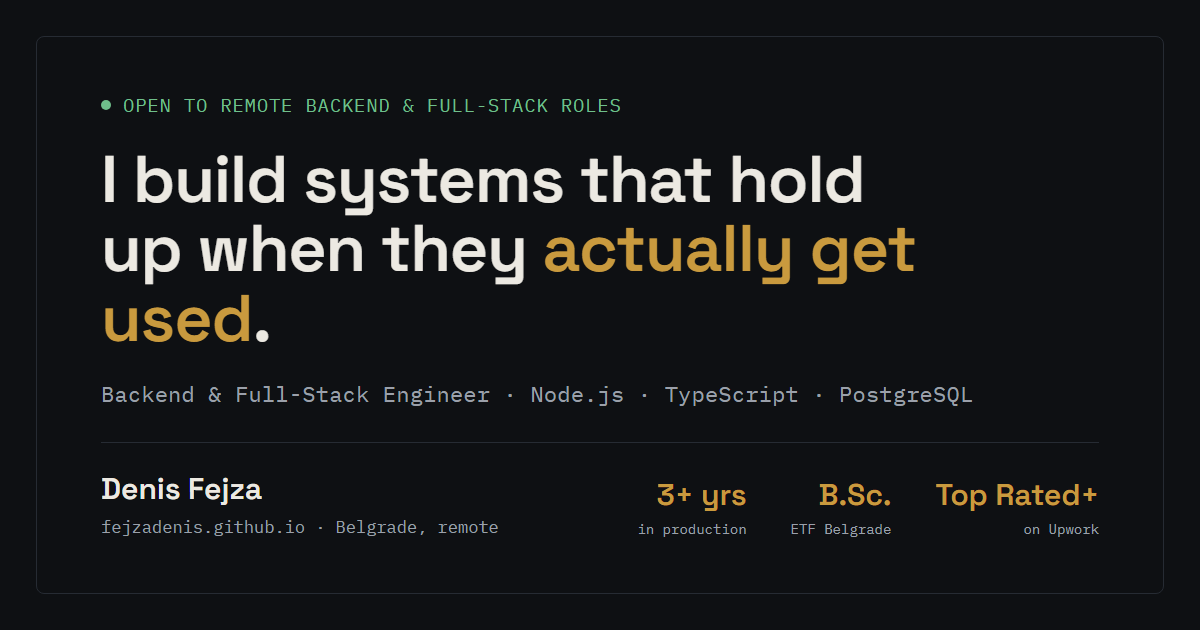
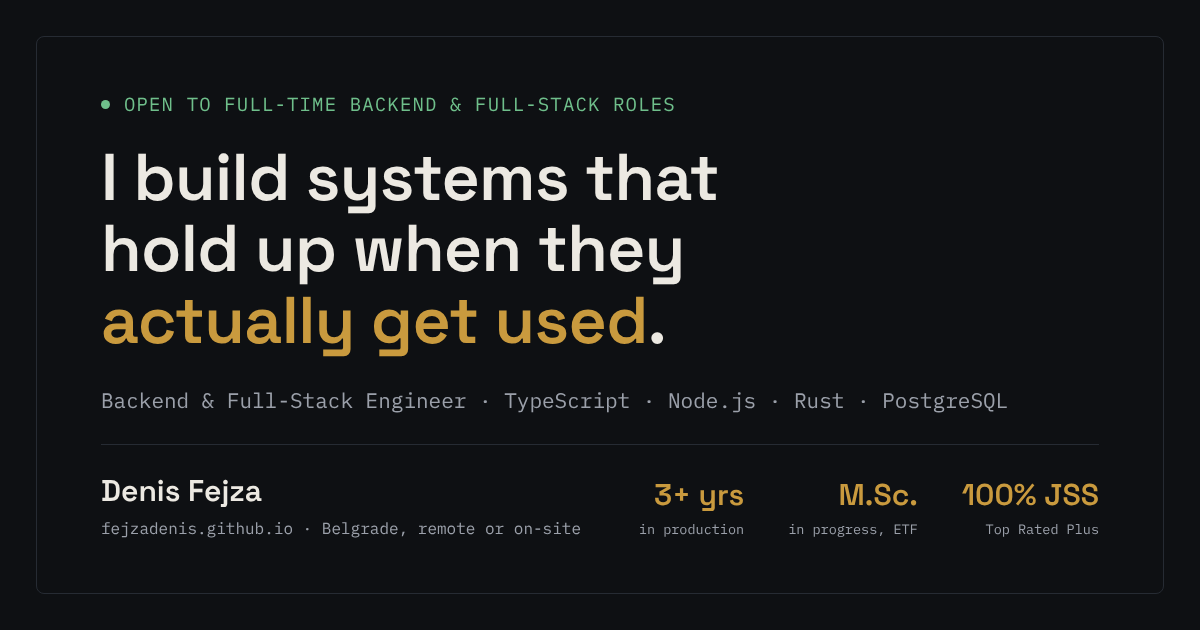
Align portfolio with LinkedIn and sharpen recruiter scan
Add M.Sc. in progress, Upwork as past role with 100% JSS, Belgrade location,
employment types and chronological experience, Text-to-SQL thesis card,
core stack line, expanded stack, refreshed preview image and metadata.

Claude-Session: https://claude.ai/code/session_01GMSU9wCStTBscBUy4AtybG

diff --git a/index.html b/index.html
@@ -4,25 +4,25 @@
 <meta charset="UTF-8" />
 <meta name="viewport" content="width=device-width, initial-scale=1.0" />
 <title>Denis Fejza | Backend &amp; Full-Stack Engineer</title>
-<meta name="description" content="Backend and full-stack engineer with three years shipping production systems for paying clients: APIs, PostgreSQL, authentication and payments, plus AI and trading infrastructure. Europe-based, remote, full-time or contract." />
+<meta name="description" content="Denis Fejza, backend and full-stack engineer in Belgrade. 3+ years shipping production systems in TypeScript/Node.js, Rust, Python and PostgreSQL: APIs, auth, payments, AI agents and trading infrastructure. Open to full-time roles, remote or on-site in Belgrade." />
 <meta name="robots" content="index, follow, max-image-preview:large" />
 <meta name="theme-color" content="#0E1013" />
 <link rel="canonical" href="https://fejzadenis.github.io/" />
 
 <meta property="og:site_name" content="Denis Fejza" />
 <meta property="og:title" content="Denis Fejza | Backend &amp; Full-Stack Engineer" />
-<meta property="og:description" content="Three years shipping production systems for paying clients: APIs, PostgreSQL, auth and payments, plus AI and trading infrastructure. Systems depth from a RISC-V kernel to a compiler. Europe-based, remote." />
+<meta property="og:description" content="3+ years shipping production systems: APIs, PostgreSQL, auth and payments, plus AI agents and trading infrastructure in Rust. Systems depth from a RISC-V kernel to a compiler. Belgrade, remote or on-site." />
 <meta property="og:type" content="website" />
 <meta property="og:url" content="https://fejzadenis.github.io/" />
 <meta property="og:locale" content="en_US" />
 <meta property="og:image" content="https://fejzadenis.github.io/assets/og.png" />
 <meta property="og:image:width" content="1200" />
 <meta property="og:image:height" content="630" />
-<meta property="og:image:alt" content="Denis Fejza, backend and full-stack engineer, Europe, remote." />
+<meta property="og:image:alt" content="Denis Fejza, backend and full-stack engineer, Belgrade, Serbia. Open to full-time roles." />
 
 <meta name="twitter:card" content="summary_large_image" />
 <meta name="twitter:title" content="Denis Fejza | Backend &amp; Full-Stack Engineer" />
-<meta name="twitter:description" content="Three years shipping production systems for paying clients: APIs, PostgreSQL, auth and payments, plus AI and trading infrastructure." />
+<meta name="twitter:description" content="3+ years shipping production systems: APIs, PostgreSQL, auth and payments, plus AI agents and trading infrastructure in Rust." />
 <meta name="twitter:image" content="https://fejzadenis.github.io/assets/og.png" />
 
 <link rel="icon" href="/favicon.svg" type="image/svg+xml" />
@@ -167,6 +167,9 @@
   .btn-primary:hover{transform:translateY(-1px); background:#dcaa48;}
   .btn-ghost{border:1px solid var(--line); color:var(--ink); font-weight:500;}
   .btn-ghost:hover{border-color:var(--ink-dim); transform:translateY(-1px);}
+  .core-stack{display:flex; flex-wrap:wrap; align-items:center; gap:8px 18px; list-style:none; margin:-28px 0 56px; padding:0; font-family:var(--mono); font-size:12.5px; color:var(--ink-dim);}
+  .core-stack .core-label{color:var(--signal); letter-spacing:.08em; text-transform:uppercase; font-size:11px; flex-basis:auto;}
+  @media (max-width:520px){.core-stack{margin:-16px 0 44px;} .core-stack .core-label{flex-basis:100%;}}
 
   /* ---------- STATS BAR ---------- */
   .stats-bar{border-top:1px solid var(--line); border-bottom:1px solid var(--line); background:var(--bg-alt);}
@@ -207,8 +210,7 @@
   .group-label + .work-grid{margin-bottom:0;}
   .work-group + .work-group{margin-top:52px;}
   .work-grid{display:grid; grid-template-columns:repeat(2,1fr); gap:20px;}
-  .work-grid.compact{grid-template-columns:repeat(3,1fr);}
-  @media (max-width:900px){.work-grid.compact{grid-template-columns:repeat(2,1fr);}}
+  .work-grid.compact{grid-template-columns:repeat(2,1fr);}
   @media (max-width:800px){.work-grid{grid-template-columns:1fr;}}
   @media (max-width:640px){.work-grid.compact{grid-template-columns:1fr;}}
   .card{border:1px solid var(--line); border-radius:4px; padding:26px; background:var(--bg); transition:border-color .2s, transform .2s; display:flex; flex-direction:column;}
@@ -263,6 +265,7 @@
   .exp-item ul li::before{content:"\2192"; position:absolute; left:0; color:var(--signal); font-family:var(--mono);}
 
   /* ---------- EDUCATION ---------- */
+  .edu-list{display:flex; flex-direction:column; gap:16px;}
   .edu-row{display:flex; justify-content:space-between; align-items:flex-start; flex-wrap:wrap; gap:20px; border:1px solid var(--line); border-radius:4px; padding:28px; background:var(--bg-alt);}
   @media (max-width:520px){.edu-row{padding:22px 20px;}}
   .edu-row h3{font-family:var(--display); font-size:19px; margin:0 0 8px;}
@@ -335,14 +338,19 @@
 <main id="main">
 
 <div id="top" class="wrap hero">
-  <p class="avail-pill"><span class="dot" aria-hidden="true"></span><span>Open to remote backend &amp; full-stack roles, full-time or contract</span></p>
+  <p class="avail-pill"><span class="dot" aria-hidden="true"></span><span>Open to full-time backend &amp; full-stack roles &middot; remote or Belgrade</span></p>
   <h1 class="headline">I build systems that hold up when they <em>actually get used</em>.</h1>
-  <p class="hero-sub">I'm Denis Fejza, a <b>backend and full-stack engineer</b> based in Europe, working remote. Three years of production work for paying clients (APIs, PostgreSQL, authentication, payments), plus AI and trading infrastructure, and enough systems-level work (a RISC-V kernel, a compiler, a CPU in SystemVerilog) to understand what runs beneath the framework.</p>
+  <p class="hero-sub">I'm Denis Fejza, a <b>backend and full-stack engineer</b> in Belgrade. Three years of production work for clients in Europe and the US (APIs, PostgreSQL, authentication, payments), Rust services for an AI trading platform, and enough systems-level work (a RISC-V kernel, a compiler, a CPU in SystemVerilog) to understand what runs beneath the framework.</p>
   <div class="hero-actions">
     <a class="btn btn-primary" href="mailto:fejza.denis@gmail.com?subject=Opportunity%20for%20Denis">Email me &rarr;</a>
     <a class="btn btn-ghost" href="#work">See the work</a>
+    <a class="btn btn-ghost" href="https://www.linkedin.com/in/denis-fejza/" target="_blank" rel="noopener">LinkedIn</a>
     <a class="btn btn-ghost" href="https://github.com/fejzadenis" target="_blank" rel="noopener">GitHub</a>
   </div>
+  <ul class="core-stack" aria-label="Core stack">
+    <li class="core-label">Core stack</li>
+    <li>TypeScript</li><li>Node.js</li><li>Rust</li><li>Python</li><li>PostgreSQL</li><li>Redis</li><li>Docker</li><li>LLM agents</li>
+  </ul>
 </div>
 
 <div class="stats-bar">
@@ -356,12 +364,12 @@
       <p class="stat-label">Faster page loads on a live client platform after query and caching work</p>
     </div>
     <div class="stat">
-      <div class="stat-num">Top Rated+</div>
-      <p class="stat-label">Upwork Top Rated Plus status</p>
+      <div class="stat-num">100% JSS</div>
+      <p class="stat-label">Job Success and Top Rated Plus as an Upwork freelancer</p>
     </div>
     <div class="stat">
-      <div class="stat-num">B.Sc.</div>
-      <p class="stat-label">Electrical Engineering &amp; Computing, ETF Belgrade</p>
+      <div class="stat-num">M.Sc.</div>
+      <p class="stat-label">Software Engineering, in progress at the University of Belgrade (B.Sc. 2026)</p>
     </div>
   </div>
 </div>
@@ -371,7 +379,7 @@
     <div class="section-head">
       <p class="section-num">01 / Selected Work</p>
       <h2 class="section-title">What I've built.</h2>
-      <p class="section-lede">Client platforms carrying real users and real money, trading and AI infrastructure I built end to end, and the systems work underneath it all. Source is public where the client allows it.</p>
+      <p class="section-lede">Client platforms carrying real users and real money, trading and AI infrastructure I built end to end, and the research and systems work underneath it all. Source is public where the client allows it.</p>
     </div>
 
     <div class="work-group">
@@ -396,13 +404,13 @@
           <p class="card-kicker">Client platform &middot; Performance</p>
           <h4>gradi.rs</h4>
           <p class="result">40% faster page loads</p>
-          <p>Ongoing development and maintenance of a production platform, working directly with the owner.</p>
+          <p>A live Serbian construction marketplace: a multi-level materials catalog, user-posted listings for contractors and equipment rental, and a quote-request flow instead of online checkout. PHP codebase, working directly with the owner.</p>
           <ul>
             <li>Profiled the slow paths, rewrote the expensive queries and added a caching layer.</li>
             <li>Cut page load times by roughly 40% without a rewrite, on the live system.</li>
             <li>Continue to ship features and handle production issues as they come up.</li>
           </ul>
-          <div class="card-tags"><span class="tag">Full-stack</span><span class="tag">SQL optimization</span><span class="tag">Caching</span><span class="tag">Maintenance</span></div>
+          <div class="card-tags"><span class="tag">PHP</span><span class="tag">SQL optimization</span><span class="tag">Caching</span><span class="tag">Full-stack</span></div>
           <div class="card-links">
             <a class="card-src" href="https://gradi.rs" target="_blank" rel="noopener" aria-label="gradi.rs live site">Live site &rarr;</a>
           </div>
@@ -472,8 +480,19 @@
     </div>
 
     <div class="work-group">
-      <h3 class="group-label">Systems work</h3>
+      <h3 class="group-label">Research &amp; systems work</h3>
       <div class="work-grid compact">
+
+        <article class="card">
+          <p class="card-kicker">AI research &middot; B.Sc. thesis</p>
+          <h4>Text-to-SQL with LLMs</h4>
+          <p class="result">Abstains instead of guessing</p>
+          <p>Translates natural-language questions into SQL, explains the result, and declines to answer when the model's confidence is low rather than returning a wrong query. Evaluated on the Spider benchmark and two demo databases.</p>
+          <div class="card-tags"><span class="tag">Python</span><span class="tag">LLMs</span><span class="tag">SQL</span><span class="tag">Evaluation</span></div>
+          <div class="card-links">
+            <a class="card-src" href="https://github.com/fejzadenis/natural-language-to-sql-query-generation-using-large-language-models" target="_blank" rel="noopener" aria-label="Text-to-SQL thesis source on GitHub">Source &rarr;</a>
+          </div>
+        </article>
 
         <article class="card">
           <p class="card-kicker">Systems &middot; C++</p>
@@ -565,17 +584,18 @@
       <div class="tool-group">
         <h3>Languages</h3>
         <ul class="tool-pills">
-          <li class="pill">TypeScript</li><li class="pill">Python</li><li class="pill">Java</li>
-          <li class="pill">C++</li><li class="pill">C</li><li class="pill">Rust</li>
-          <li class="pill">SQL</li><li class="pill">Dart</li><li class="pill">SystemVerilog</li>
+          <li class="pill">TypeScript</li><li class="pill">Rust</li><li class="pill">Python</li>
+          <li class="pill">SQL</li><li class="pill">PHP</li><li class="pill">Java</li>
+          <li class="pill">C++</li><li class="pill">C</li><li class="pill">Dart</li><li class="pill">SystemVerilog</li>
         </ul>
       </div>
       <div class="tool-group">
         <h3>Backend &amp; data</h3>
         <ul class="tool-pills">
-          <li class="pill">Node.js</li><li class="pill">REST APIs</li><li class="pill">PostgreSQL</li>
+          <li class="pill">Node.js</li><li class="pill">Express</li><li class="pill">FastAPI</li>
+          <li class="pill">REST APIs</li><li class="pill">PostgreSQL</li><li class="pill">Redis</li>
           <li class="pill">Prisma</li><li class="pill">Supabase</li><li class="pill">Firebase</li>
-          <li class="pill">Redis</li><li class="pill">Cloudflare D1</li><li class="pill">Microservices</li>
+          <li class="pill">Cloudflare D1</li><li class="pill">Microservices</li>
         </ul>
       </div>
       <div class="tool-group">
@@ -588,9 +608,9 @@
       <div class="tool-group">
         <h3>Tooling &amp; infra</h3>
         <ul class="tool-pills">
-          <li class="pill">Git</li><li class="pill">Docker</li><li class="pill">Linux</li>
-          <li class="pill">CI/CD</li><li class="pill">Stripe</li><li class="pill">Cloudflare</li>
-          <li class="pill">Vercel</li>
+          <li class="pill">Docker</li><li class="pill">Linux</li><li class="pill">Git</li>
+          <li class="pill">CI/CD</li><li class="pill">Cloudflare Workers</li><li class="pill">Vercel</li>
+          <li class="pill">HashiCorp Vault</li><li class="pill">Stripe</li><li class="pill">Clerk</li>
         </ul>
       </div>
     </div>
@@ -602,17 +622,17 @@
     <div class="section-head">
       <p class="section-num">04 / Experience</p>
       <h2 class="section-title">Where I've done it.</h2>
-      <p class="section-lede">Three years of contract work means three years of shipping to deadlines, owning production incidents, and explaining technical trade-offs to the person paying for the outcome.</p>
+      <p class="section-lede">Full-time, part-time and contract roles since 2023: shipping to deadlines, owning production incidents, and explaining technical trade-offs to the person paying for the outcome.</p>
     </div>
     <div class="exp-list">
 
       <div class="exp-item">
-        <p class="exp-when">2026 to present</p>
+        <p class="exp-when">May 2026 to present</p>
         <div>
-          <h3 class="exp-role">Full-Stack Engineer (Contract)</h3>
-          <p class="exp-org">Macks Studios &middot; US studio serving service businesses</p>
+          <h3 class="exp-role">Full-Stack Engineer</h3>
+          <p class="exp-org">Macks Studios &middot; Contract &middot; US studio serving service businesses</p>
           <ul>
-            <li>Own security, reliability and integrations across client platforms, including a live SvelteKit membership platform on Cloudflare Workers with Stripe billing, role-based access and gated video.</li>
+            <li>Own security, reliability and integrations across client platforms, including a live SvelteKit membership platform on Cloudflare Workers with Stripe billing, role-based access and gated video for about 640 members.</li>
             <li>Audited authentication, payment provisioning, webhook handling and data retention end to end, ranked the findings by severity, then repaired access control and admin role management.</li>
             <li>Fixed email deliverability (SPF/DKIM, list hygiene, WooCommerce transactional email) and now delivering a full-funnel event tracking and attribution rebuild.</li>
           </ul>
@@ -620,27 +640,13 @@
       </div>
 
       <div class="exp-item">
-        <p class="exp-when">2024 to present</p>
+        <p class="exp-when">May 2024 to present</p>
         <div>
           <h3 class="exp-role">Full-Stack Engineer</h3>
-          <p class="exp-org">gradi.rs &middot; construction marketplace</p>
+          <p class="exp-org">gradi.rs &middot; Part-time &middot; construction marketplace</p>
           <ul>
-            <li>Ongoing development of a live Serbian marketplace for construction materials, transport, contractors and equipment rental, working directly with the owner.</li>
+            <li>Development of a live Serbian marketplace for construction materials, contractors and equipment rental on a PHP codebase, working directly with the owner.</li>
             <li>Profiled the slow paths, rewrote the expensive queries and added caching, cutting page load times by roughly 40% without a rewrite.</li>
-          </ul>
-        </div>
-      </div>
-
-      <div class="exp-item">
-        <p class="exp-when">2023 to present</p>
-        <div>
-          <h3 class="exp-role">Freelance Software Engineer</h3>
-          <p class="exp-org">Upwork (Top Rated Plus) and direct clients</p>
-          <ul>
-            <li>Delivered backend and full-stack builds end to end: requirements, architecture, implementation, deployment and handover.</li>
-            <li>Took over existing production codebases and made them faster and safer without rewrites, through query optimization, caching and access-control repair.</li>
-            <li>Hold Upwork's Top Rated Plus status.</li>
-            <li>Work async with clients across EU and US time zones.</li>
           </ul>
         </div>
       </div>
@@ -648,23 +654,36 @@
       <div class="exp-item">
         <p class="exp-when">Jan 2025 to Mar 2026</p>
         <div>
-          <h3 class="exp-role">Backend Engineer (Rust), Web3 &amp; AI Trading</h3>
-          <p class="exp-org">FUKU &middot; distributed engineering team</p>
+          <h3 class="exp-role">Backend Engineer (Rust)</h3>
+          <p class="exp-org">FUKU AI &middot; Full-time &middot; AI trading platform</p>
           <ul>
             <li>Built on a Rust monorepo running roughly 22 containerised services in production: an LLM trading agent, Solana execution, Hyperliquid perpetuals and real-time market streams.</li>
             <li>Owned the Telegram signal service and the Agent Commerce Protocol adapter end to end, and worked across the shared agent, database and Jupiter SDK crates.</li>
-            <li>Shipped into a codebase with fifteen contributors, behind Traefik, with HashiCorp Vault for key custody and 50 forward migrations on Postgres.</li>
+            <li>Shipped into a codebase with fifteen contributors, behind Traefik, with HashiCorp Vault for key custody and 50 forward migrations on Postgres. Contributed to the token migration from Solana to Base.</li>
           </ul>
         </div>
       </div>
 
       <div class="exp-item">
-        <p class="exp-when">2023 to 2024</p>
+        <p class="exp-when">Feb 2023 to Oct 2025</p>
+        <div>
+          <h3 class="exp-role">Freelance Backend &amp; Full-Stack Engineer</h3>
+          <p class="exp-org">Upwork and direct clients &middot; Remote</p>
+          <ul>
+            <li>Delivered backend and full-stack builds end to end for EU and US clients: requirements, architecture, implementation, deployment and handover.</li>
+            <li>Took over existing production codebases and made them faster and safer without rewrites, through query optimization, caching and access-control repair.</li>
+            <li>Reached Top Rated Plus with a 100% Job Success Score.</li>
+          </ul>
+        </div>
+      </div>
+
+      <div class="exp-item">
+        <p class="exp-when">May 2023 to Mar 2024</p>
         <div>
           <h3 class="exp-role">Junior Software Engineer</h3>
           <p class="exp-org">SEOTEAM.IO</p>
           <ul>
-            <li>Replaced manual SEO process and reporting work with repeatable Python tooling.</li>
+            <li>Built Python automation tools, scheduled jobs and API integrations that replaced manual SEO data collection and reporting.</li>
             <li>Turned a recurring human task into a scheduled, reviewable pipeline.</li>
           </ul>
         </div>
@@ -692,21 +711,30 @@
       <p class="section-num">05 / Education</p>
       <h2 class="section-title">Where the fundamentals came from.</h2>
     </div>
-    <div class="edu-row">
-      <div>
-        <h3>B.Sc. Electrical Engineering and Computing</h3>
-        <p>University of Belgrade, School of Electrical Engineering (ETF), Department of Computer Engineering and Informatics. A mathematics and systems curriculum, assessed on implementation projects: the kernel, the compiler and the CPU in Selected Work all started here.</p>
-        <ul class="edu-courses">
-          <li class="tag">Operating systems</li><li class="tag">Compilers</li><li class="tag">Computer architecture</li>
-          <li class="tag">Algorithms &amp; data structures</li><li class="tag">Digital design / VLSI</li><li class="tag">Databases</li>
-        </ul>
+    <div class="edu-list">
+      <div class="edu-row">
+        <div>
+          <h3>M.Sc. Computer Software Engineering</h3>
+          <p>University of Belgrade, School of Electrical Engineering (ETF), Software Engineering module. Started October 2026, alongside work.</p>
+        </div>
+        <span class="edu-badge">In progress</span>
       </div>
-      <span class="edu-badge">Degree completed</span>
+      <div class="edu-row">
+        <div>
+          <h3>B.Sc. Electrical Engineering and Computing</h3>
+          <p>University of Belgrade, School of Electrical Engineering (ETF), Computer Engineering and Informatics, 2020 to 2026. A mathematics and systems curriculum, assessed on implementation projects: the kernel, the compiler, the CPU and the Text-to-SQL thesis in Selected Work all started here.</p>
+          <ul class="edu-courses">
+            <li class="tag">Operating systems</li><li class="tag">Compilers</li><li class="tag">Computer architecture</li>
+            <li class="tag">Algorithms &amp; data structures</li><li class="tag">Digital design / VLSI</li><li class="tag">Databases</li>
+          </ul>
+        </div>
+        <span class="edu-badge">Completed 2026</span>
+      </div>
     </div>
     <ul class="langs">
       <li class="lang"><b>Serbian</b> &middot; Native</li>
       <li class="lang"><b>English</b> &middot; Full professional</li>
-      <li class="lang"><b>German</b> &middot; Conversational</li>
+      <li class="lang"><b>German</b> &middot; Limited working</li>
     </ul>
   </div>
 </section>
@@ -714,7 +742,7 @@
 <section id="final-cta">
   <div class="wrap">
     <h2>Let's talk about the work.</h2>
-    <p>A backend or full-stack role is the priority, and I take on contract and freelance engagements alongside it. Remote across EU and US time zones, based in Europe. Send a short note about the team and the problem, and I'll reply within a day.</p>
+    <p>A full-time backend or full-stack role is the priority, remote across EU and US time zones or on-site in Belgrade. I also take on contract work alongside it. Send a short note about the team and the problem, and I'll reply within a day.</p>
     <div class="cta-actions">
       <a class="btn btn-primary" href="mailto:fejza.denis@gmail.com?subject=Role%20opportunity">Discuss a role &rarr;</a>
       <a class="btn btn-ghost" href="mailto:fejza.denis@gmail.com?subject=Project%20inquiry">Discuss a project</a>
@@ -734,7 +762,7 @@
       <li><a href="tel:+381628122047">+381&nbsp;62&nbsp;812&nbsp;2047</a></li>
       <li><a href="https://www.linkedin.com/in/denis-fejza/" target="_blank" rel="noopener">LinkedIn</a></li>
       <li><a href="https://github.com/fejzadenis" target="_blank" rel="noopener">GitHub</a></li>
-      <li>Europe (CET)</li>
+      <li>Belgrade, Serbia (CET)</li>
     </ul>
   </div>
 </footer>
@@ -755,7 +783,8 @@
     "telephone": "+381628122047",
     "address": {
       "@type": "PostalAddress",
-      "addressRegion": "Europe"
+      "addressLocality": "Belgrade",
+      "addressCountry": "RS"
     },
     "alumniOf": {
       "@type": "CollegeOrUniversity",
@@ -775,6 +804,11 @@
       "Operating systems",
       "Compilers",
       "Computer architecture",
+      "Rust",
+      "Redis",
+      "LLM agents",
+      "Text-to-SQL",
+      "Stripe payments",
       "Solana",
       "Trading systems"
     ],
